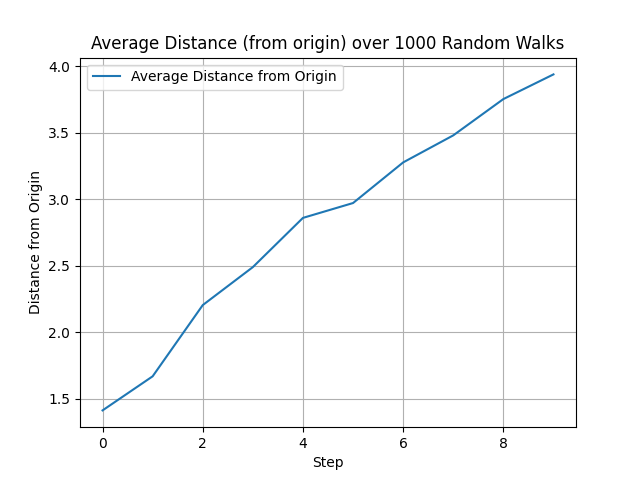
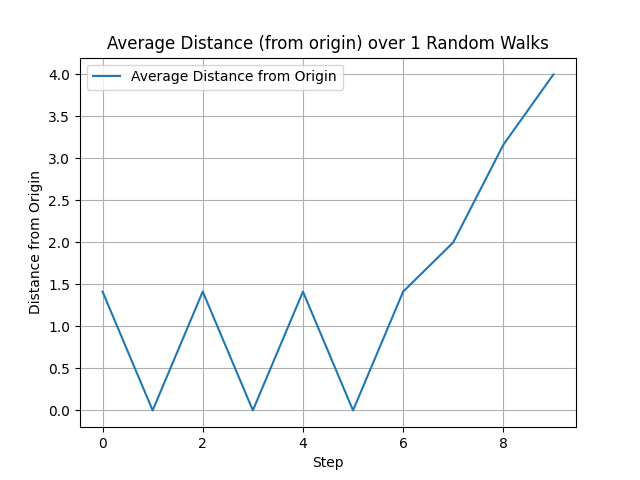
minor update

diff --git a/random_walk.py b/random_walk.py
@@ -54,7 +54,7 @@ def plot_average_distance(n_samples, steps):
     plt.grid(True)
     plt.show()
 
-n_samples = 1000
+n_samples = 1
 steps = 10
 
 plot_average_distance(n_samples, steps)

diff --git a/README.md b/README.md
@@ -6,8 +6,11 @@ What does ```random_walk.py``` do?
 Essentially, it aims to solve the problem of random number generation. 
 We take a random walk problem of an atom moving inside a 2D lattice, which has 4 possible steps to "jump" to, inside the lattice. The quantum circuit uses 2 qubits, and applies a Hadamard gate on them, to create an equal probability of both to be either 0 or 1. After that, the outputs determine the final random step.
 
-Since, it is a random walk, over a large number of samples, the average distance travelled across all samples, appears to be linear (see fig. 1)
+Since, it is a random walk, over a single sample, the average distance travlled would appear to be random (see fig. 1). 
 !['fig. 1'](Figure_1.png)
+
+But, over a large number of samples, the average distance travelled across all samples, appears to be linear (see fig. 2)
+!['fig. 2'](Figure_2.png)
 
 
 QCNN: MNIST classification using hybrid models (refer to QCNN/readme.md for more info)
